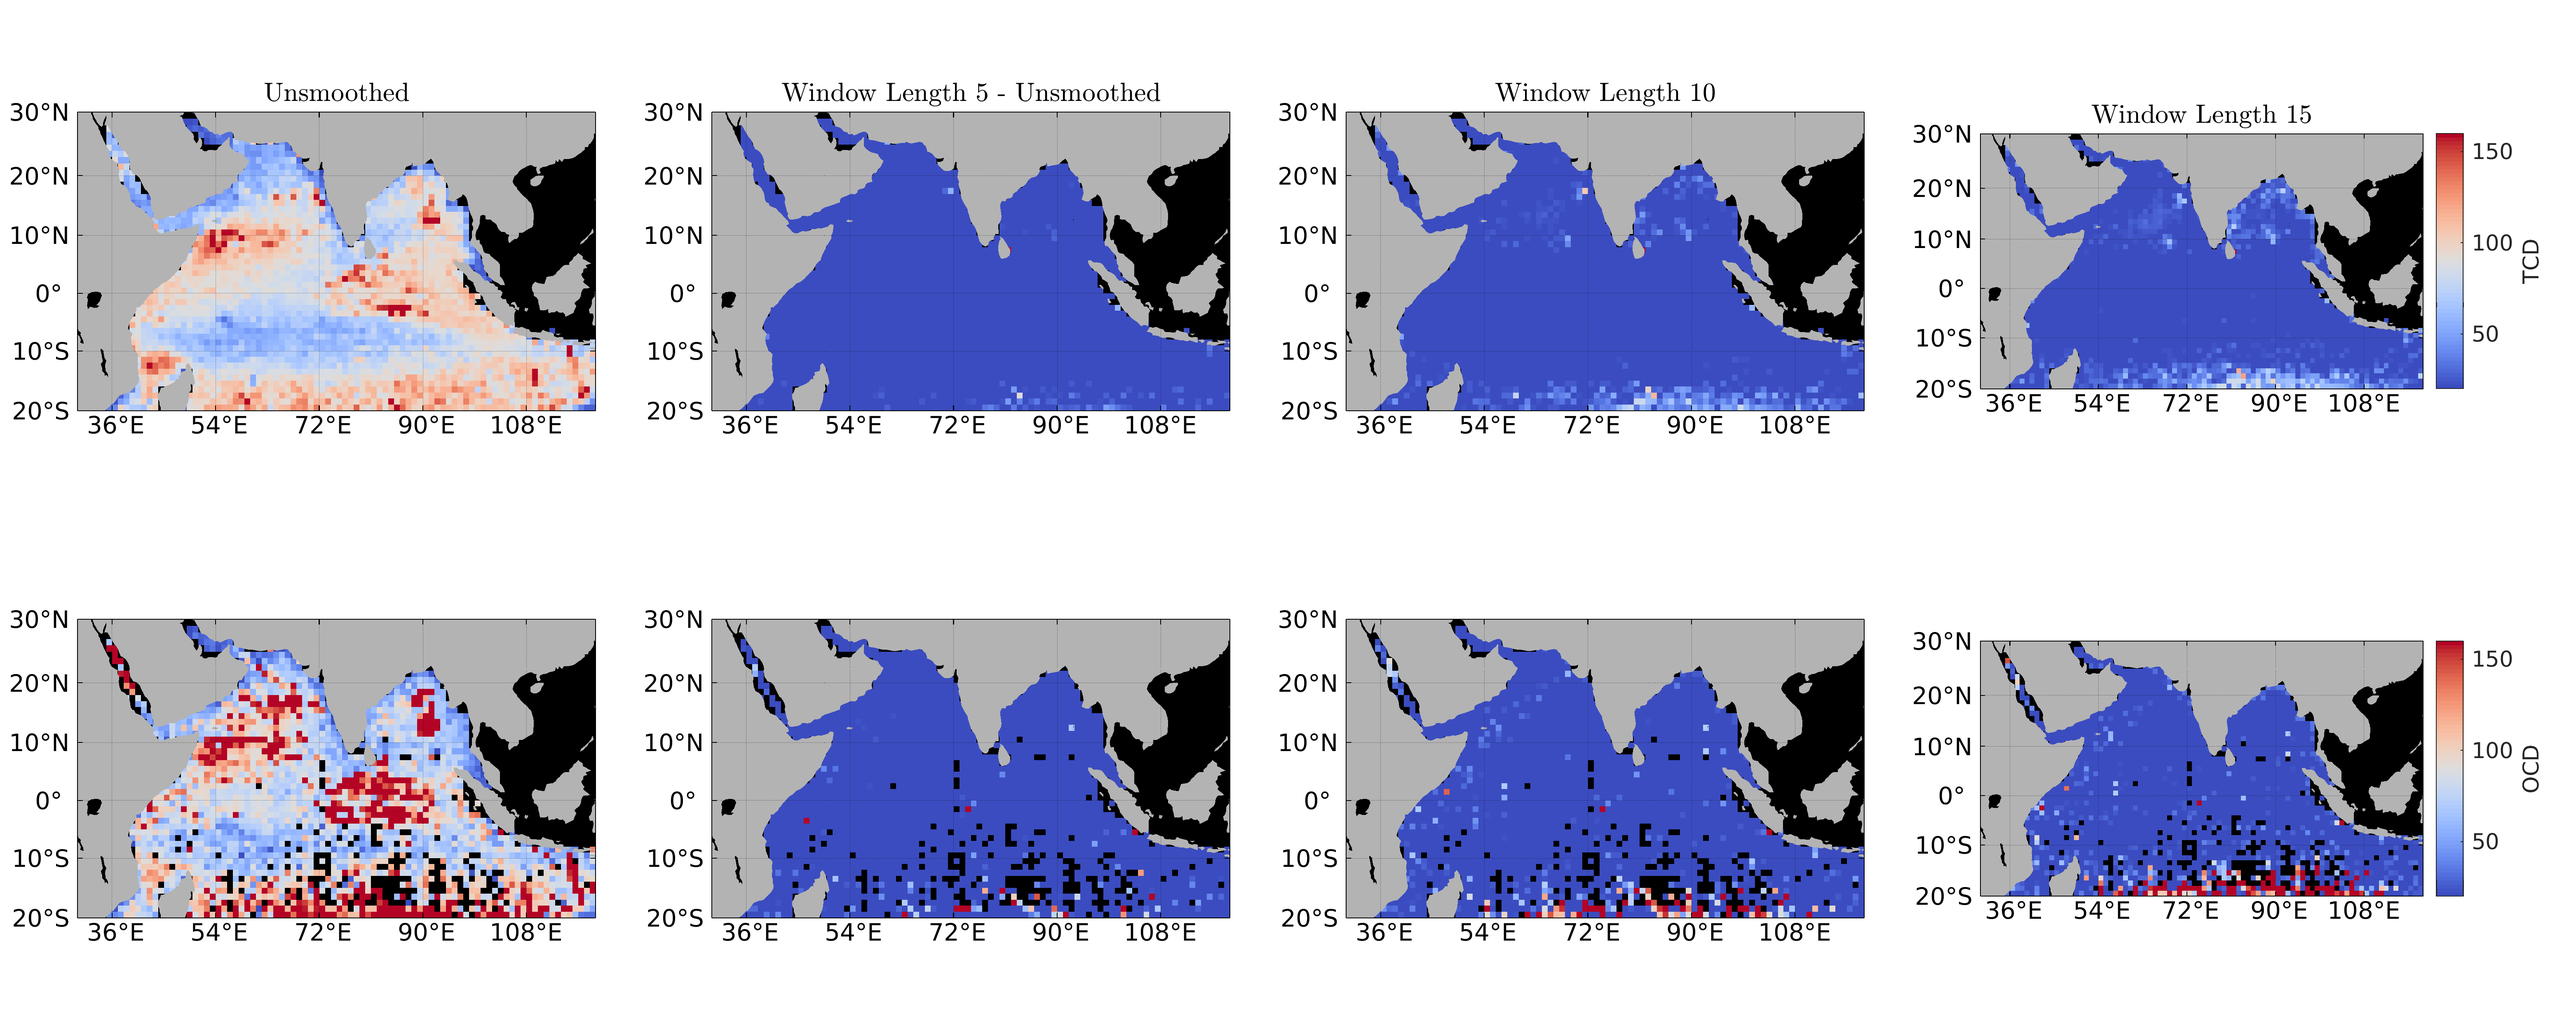
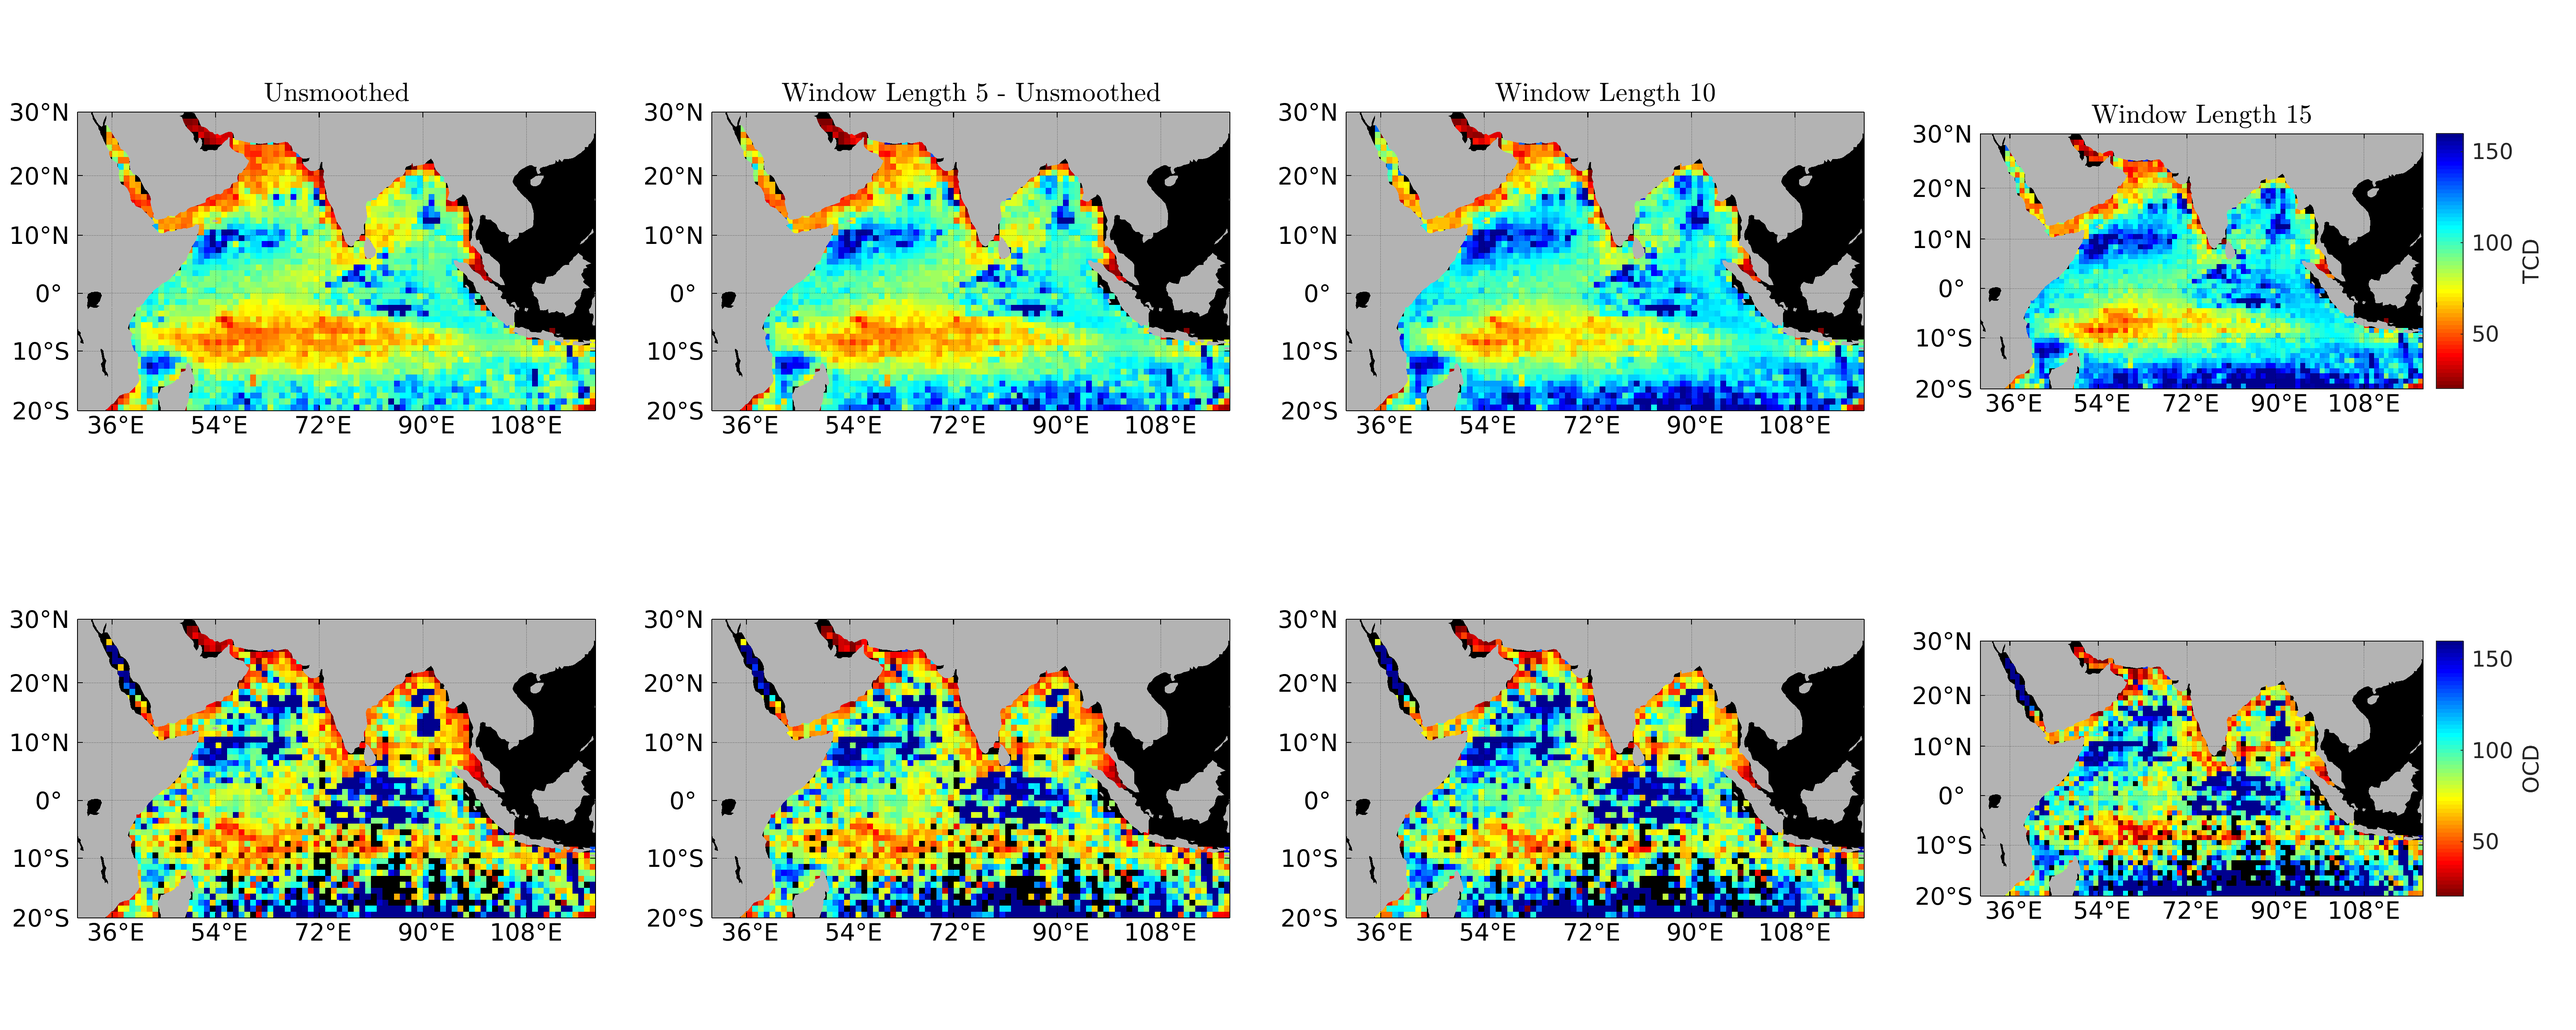
updates

diff --git a/Code/Initial_Testing/B_Vertical_Smoothing_Testing.m b/Code/Initial_Testing/B_Vertical_Smoothing_Testing.m
@@ -305,37 +305,9 @@ sp = 0.015;
 pad = 0.015;
 mar = 0.015;
 
-% unsmoothed TCD
-subaxis(2,4,1, 'Spacing', sp, 'Padding', pad,'Margin',mar)
-m_proj('mercator','longitudes',[30,120], ...
-           'latitudes',[-20,30]);
-hold on
-m_pcolor(lon_grid,lat_grid,TCD_grad_grid_ave); shading flat;
-m_coast('patch',[.7 .7 .7],'edgecolor','none');
-m_grid('background color','k');
-c = colorbar;
-oldcmap = colormap('jet');
-colormap( flipud(oldcmap) );
-delete(colorbar);
-title('Unsmoothed')
-caxis([20,160])
-
-% unsmoothed OCD
-subaxis(2,4,5, 'Spacing', sp, 'Padding', pad,'Margin',mar)
-m_proj('mercator','longitudes',[30,120], ...
-           'latitudes',[-20,30]);
-hold on
-m_pcolor(lon_grid,lat_grid,OCD_grad_grid_ave); shading flat;
-m_coast('patch',[.7 .7 .7],'edgecolor','none');
-m_grid('background color','k');
-c = colorbar;
-oldcmap = colormap('jet');
-colormap( flipud(oldcmap) );
-delete(colorbar);
-caxis([20,160])
 
 % window 5 smoothed TCD
-subaxis(2,4,2, 'Spacing', sp, 'Padding', pad,'Margin',mar)
+subaxis(2,3,1, 'Spacing', sp, 'Padding', pad,'Margin',mar)
 m_proj('mercator','longitudes',[30,120], ...
            'latitudes',[-20,30]);
 hold on
@@ -346,10 +318,10 @@ c = colorbar;
 colormap(coolwarm);
 delete(colorbar);
 title('Window Length 5 - Unsmoothed')
-caxis([20,160])
+caxis([-10,10])
 
 % window 5 smoothed OCD
-subaxis(2,4,6, 'Spacing', sp, 'Padding', pad,'Margin',mar)
+subaxis(2,3,4, 'Spacing', sp, 'Padding', pad,'Margin',mar)
 m_proj('mercator','longitudes',[30,120], ...
            'latitudes',[-20,30]);
 hold on
@@ -359,10 +331,10 @@ m_grid('background color','k');
 c = colorbar;
 colormap(coolwarm);
 delete(colorbar);
-caxis([20,160])
+caxis([-10,10])
 
 % window 10 smoothed TCD
-subaxis(2,4,3, 'Spacing', sp, 'Padding', pad,'Margin',mar)
+subaxis(2,3,2, 'Spacing', sp, 'Padding', pad,'Margin',mar)
 m_proj('mercator','longitudes',[30,120], ...
            'latitudes',[-20,30]);
 hold on
@@ -373,10 +345,10 @@ c = colorbar;
 colormap(coolwarm);
 delete(colorbar);
 title('Window Length 10')
-caxis([20,160])
+caxis([-10,10])
 
 % window 10 smoothed OCD
-subaxis(2,4,7, 'Spacing', sp, 'Padding', pad,'Margin',mar)
+subaxis(2,3,5, 'Spacing', sp, 'Padding', pad,'Margin',mar)
 m_proj('mercator','longitudes',[30,120], ...
            'latitudes',[-20,30]);
 hold on
@@ -386,11 +358,11 @@ m_grid('background color','k');
 c = colorbar;
 colormap(coolwarm);
 delete(colorbar);
-caxis([20,160])
+caxis([-10,10])
 
 
 % window 15 smoothed TCD
-subaxis(2,4,4, 'Spacing', sp, 'Padding', pad,'Margin',mar)
+subaxis(2,3,3, 'Spacing', sp, 'Padding', pad,'Margin',mar)
 m_proj('mercator','longitudes',[30,120], ...
            'latitudes',[-20,30]);
 hold on
@@ -401,10 +373,10 @@ c = colorbar;
 ylabel(c,'TCD')
 colormap(coolwarm);
 title('Window Length 15')
-caxis([20,160])
+caxis([-10,10])
 
 % window 15 smoothed OCD
-subaxis(2,4,8, 'Spacing', sp, 'Padding', pad,'Margin',mar)
+subaxis(2,3,6, 'Spacing', sp, 'Padding', pad,'Margin',mar)
 m_proj('mercator','longitudes',[30,120], ...
            'latitudes',[-20,30]);
 hold on
@@ -414,12 +386,13 @@ m_grid('background color','k');
 c = colorbar;
 ylabel(c,'OCD')
 colormap(coolwarm);
-caxis([20,160])
+caxis([-10,10])
 
 
 
 % save png
-outfn = ['TCD_OCD_Smoothing_qc_thresh_' num2str(qc_thresh)  '.png'];
+outfn = ['TCD_OCD_Smoothing_Anomaly_top
+    qc_thresh_' num2str(qc_thresh)  '.png'];
 print(gcf,[outfp outfn],'-dpng','-r300'); 
 
 % %% Smoothed Profiles ======================================================
